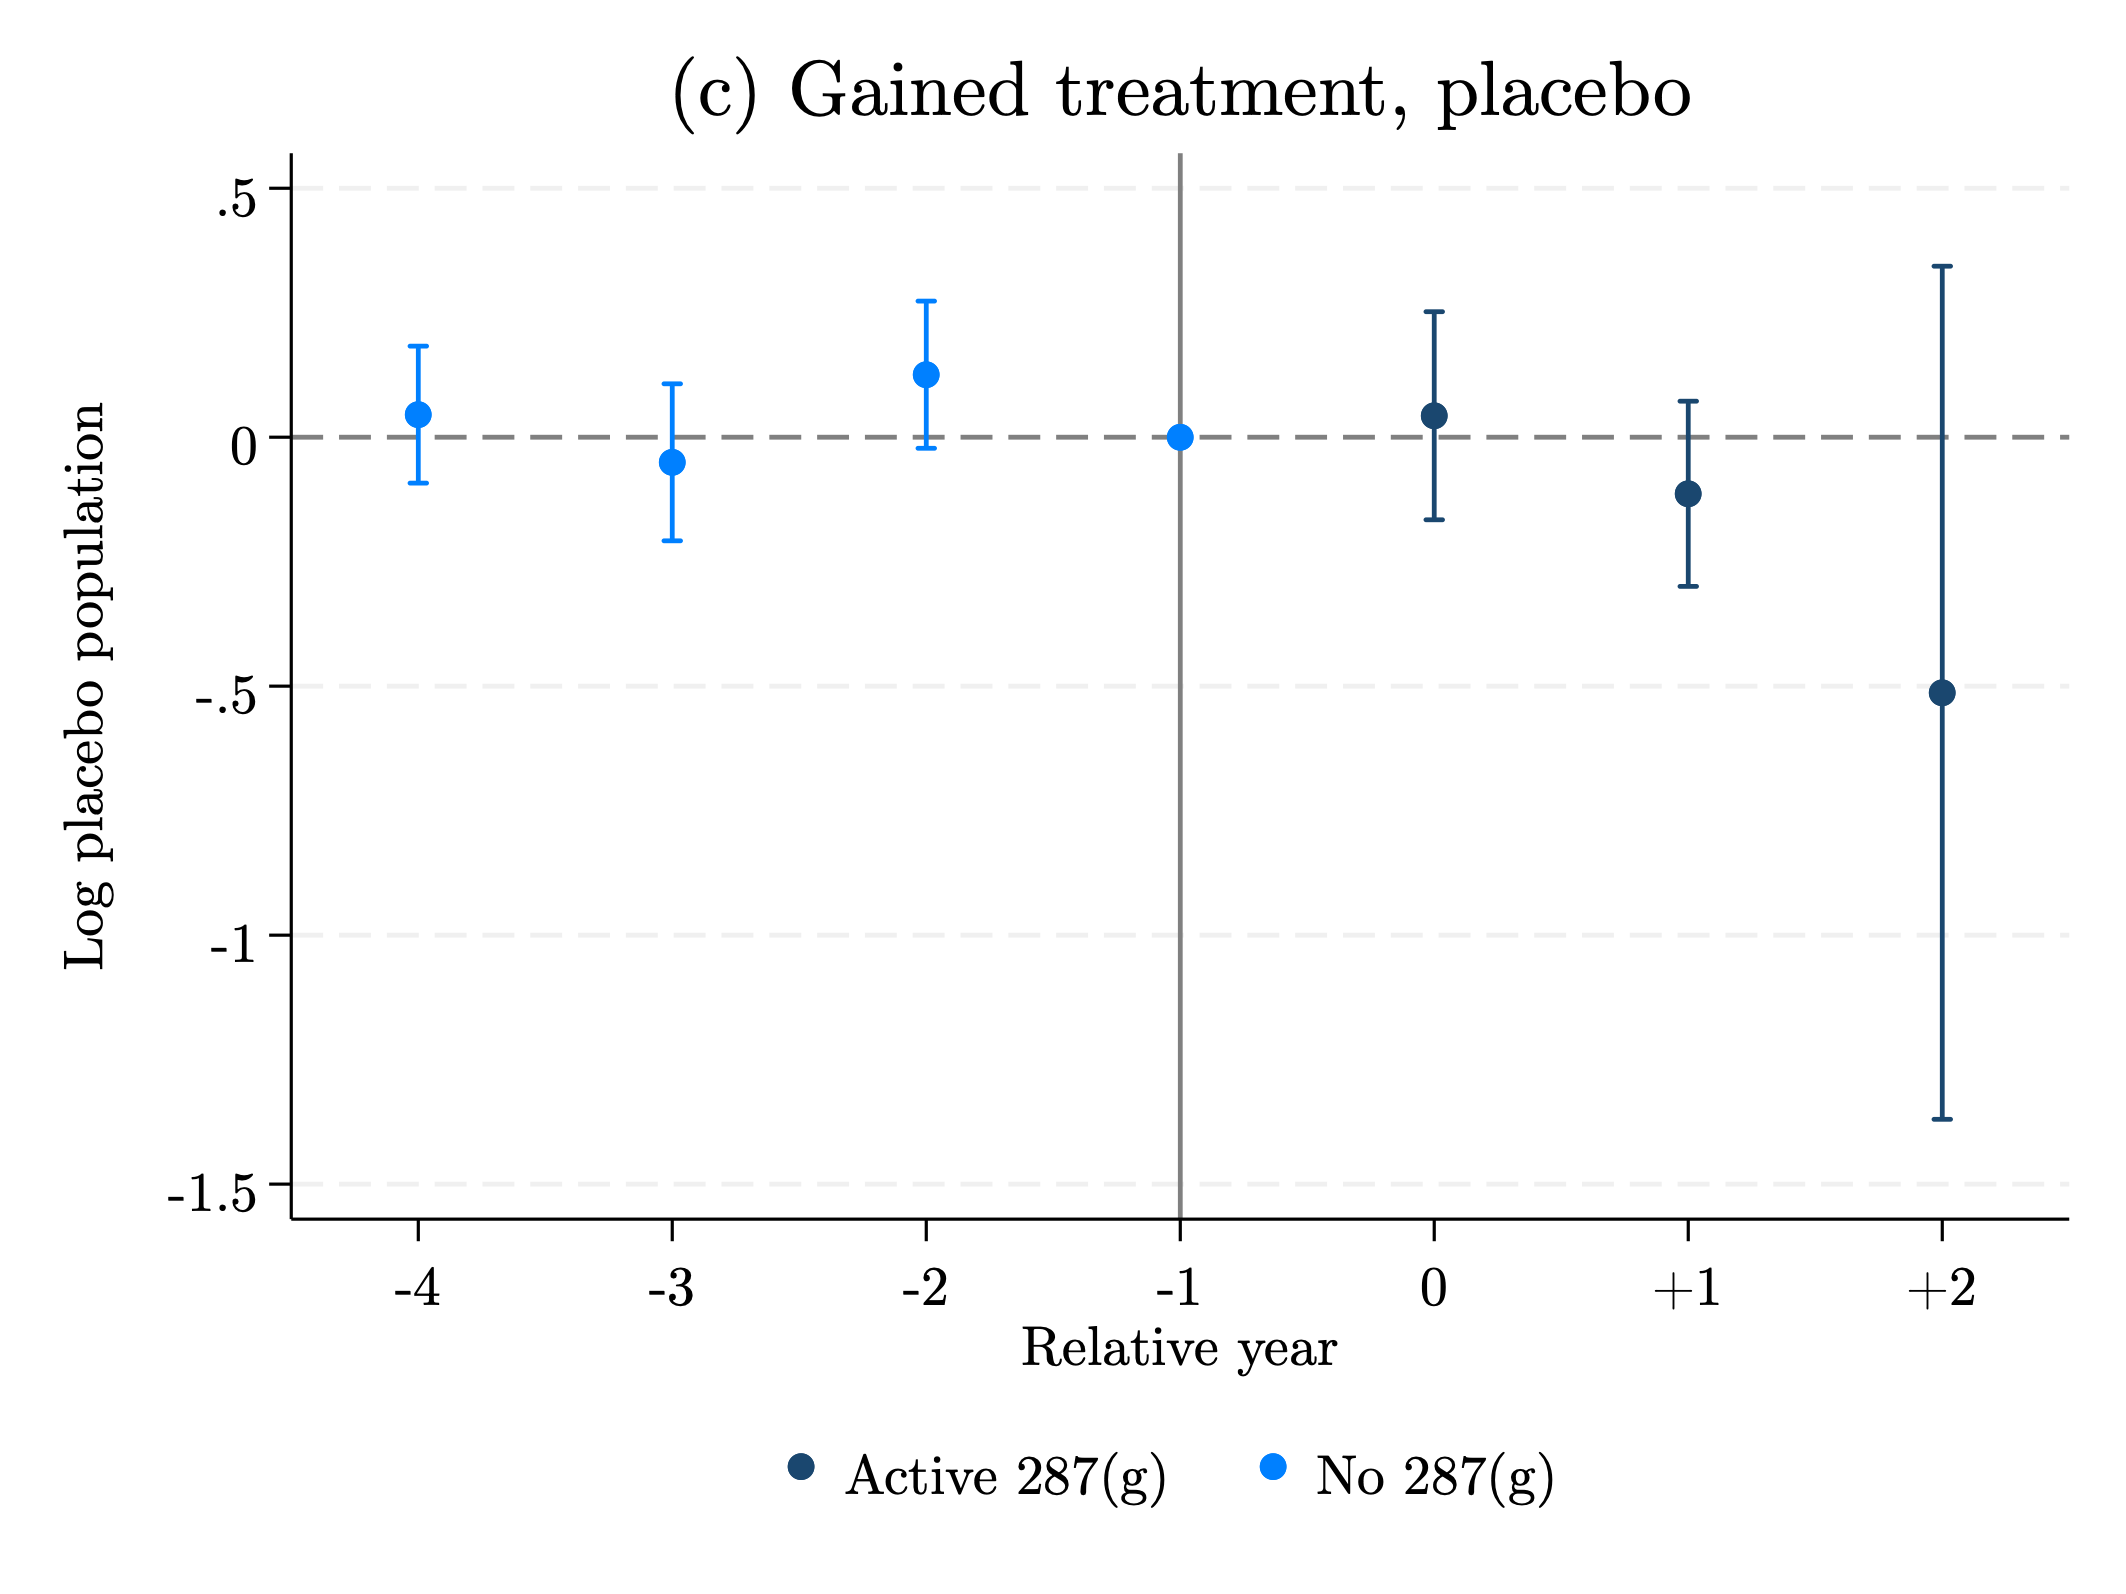
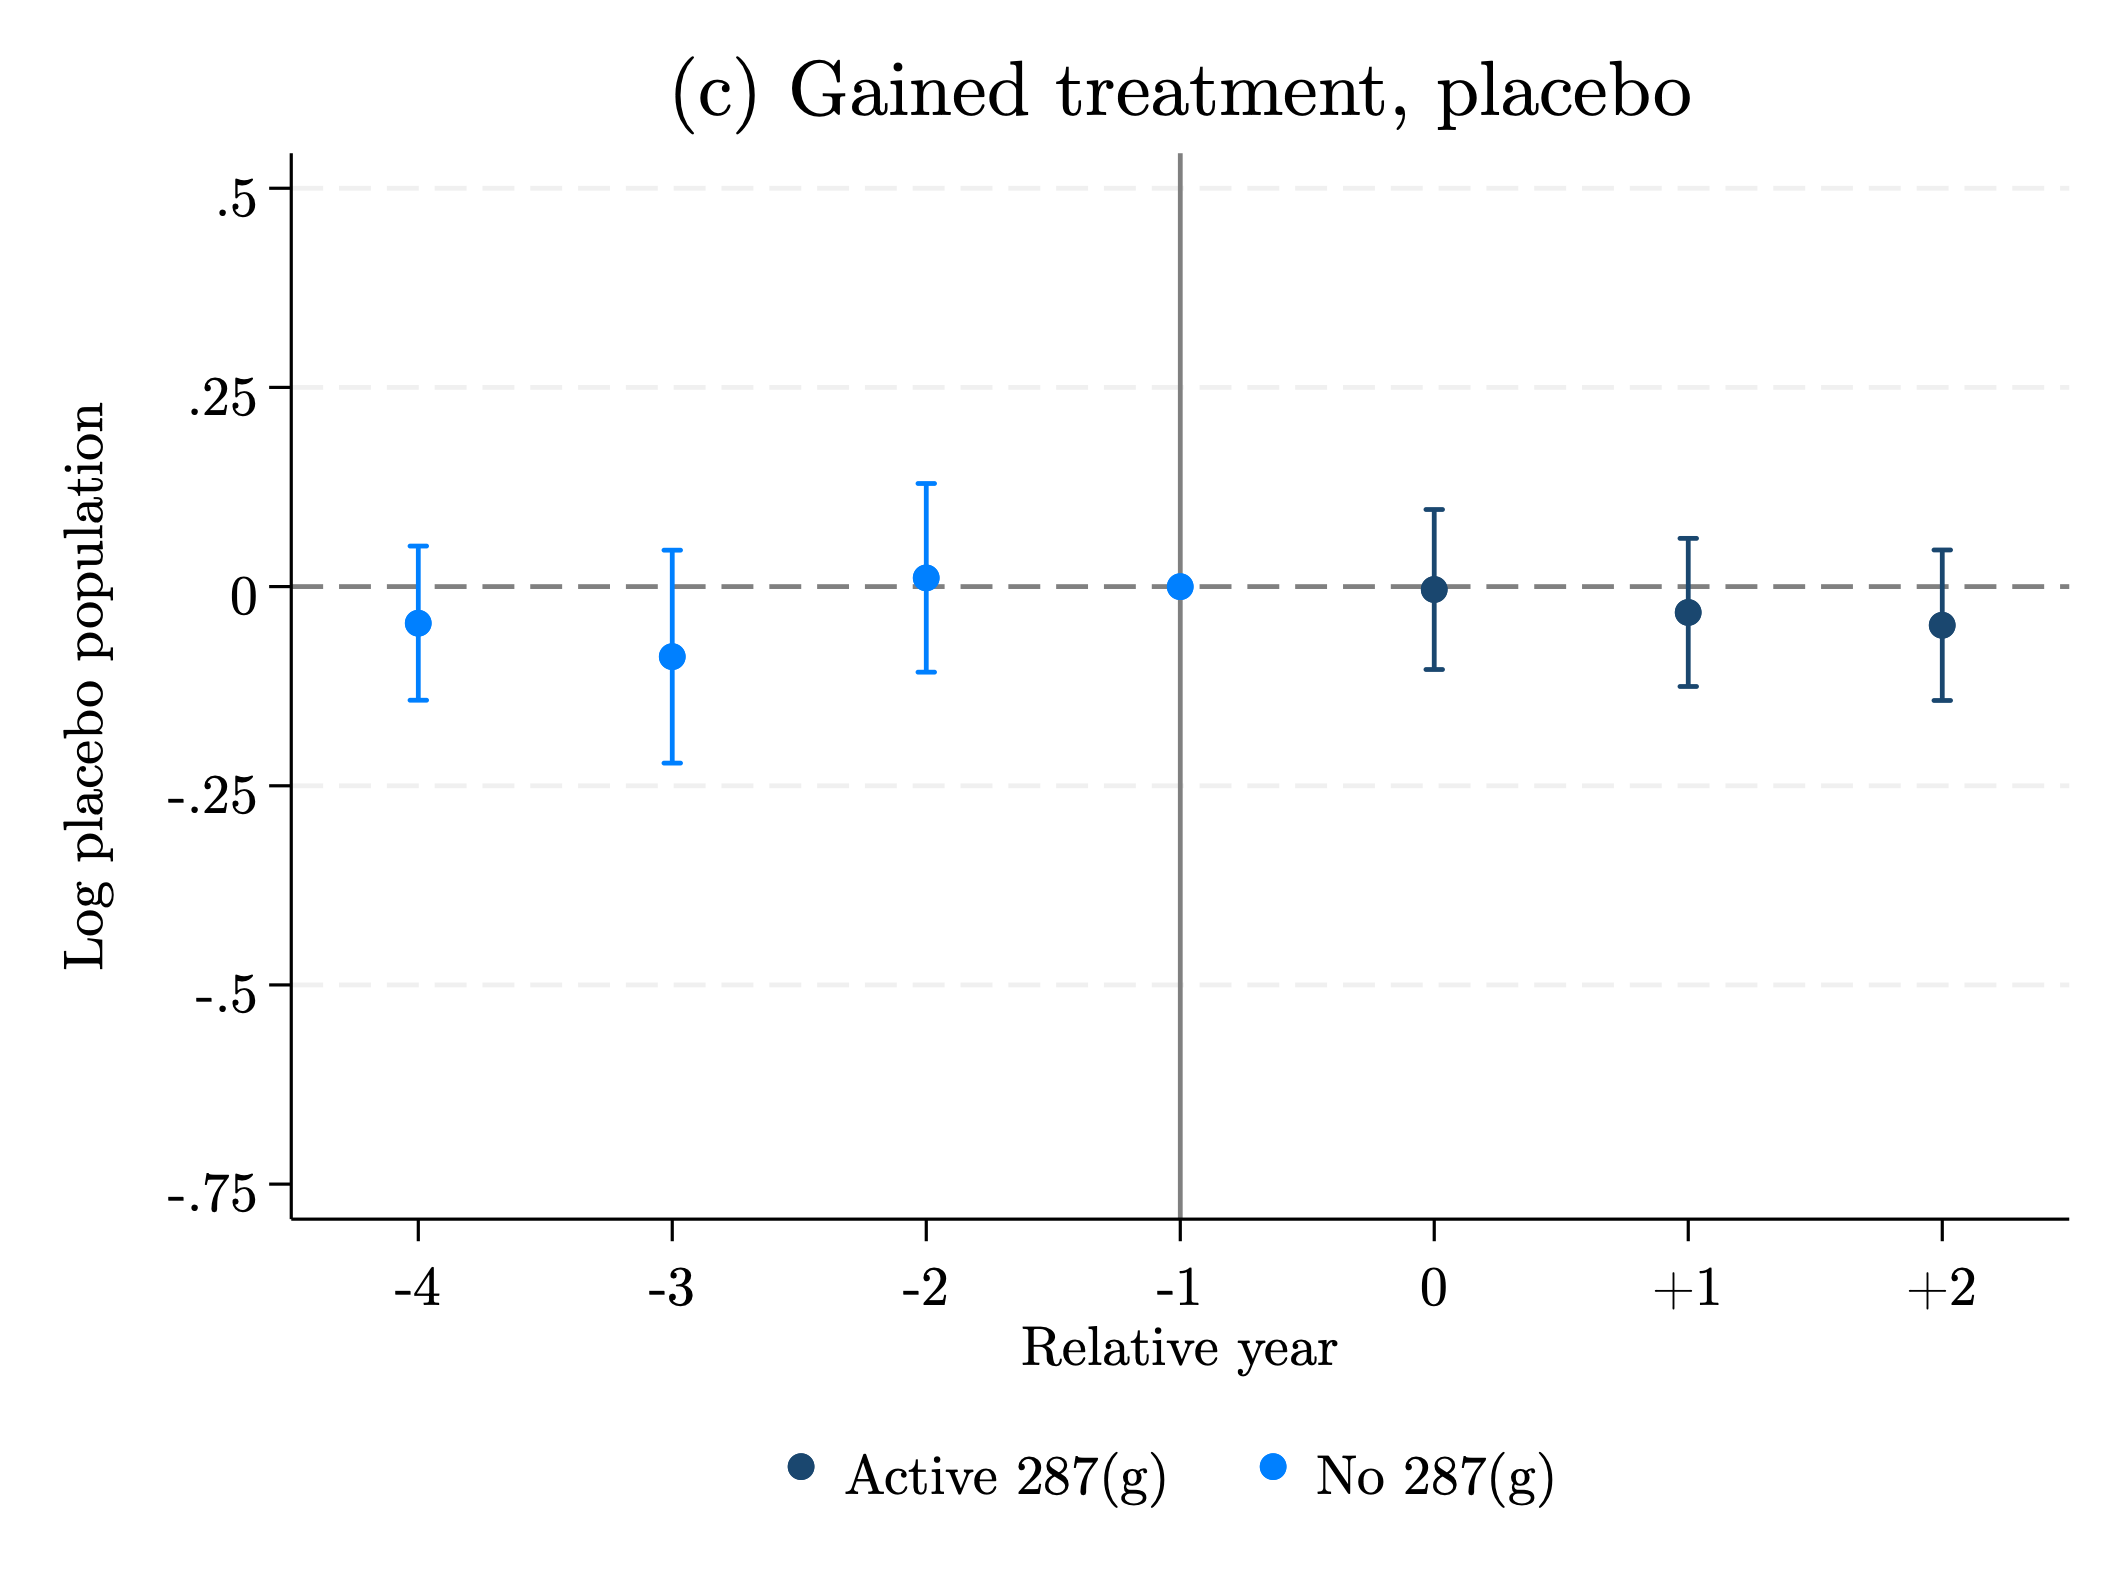
trying out white population

diff --git a/output/final/logpops_het.tex b/output/final/logpops_het.tex
@@ -22,14 +22,14 @@ Sample Size & 1,505 & 1,505 & 1,505 & 1,505 & 1,505 & 1,505  \\
  & Baseline & Mexican & Poor English & New Immigrant & No children & Non-Hispanic \\
 Log population & (7) & (8)  & (9) & (10) & (11) & (12) \\
 \midrule
- Gain treatment & -0.0834 & 0.1679 & -0.7473 & . & -0.0456 & -0.0353 \\
- & (0.2311) & (0.3066) & (0.5479) & . & (0.2339) & (0.0290) \\
- Lose treatment & 0.0358 & -0.1834 & 0.3267 & . & 0.0255 & -0.0621*** \\
- & (0.0350) & (0.1348) & (0.2490) & . & (0.0374) & (0.0208) \\
+ Gain treatment & 0.0054 & 9,999.0000 & -0.5015 & . & 0.0221 & -0.0353 \\
+ & (0.0295) & (9,999.0000) & (0.4063) & . & (0.0316) & (0.0290) \\
+ Lose treatment & -0.0996*** & 9,999.0000 & -0.5095 & . & -0.0784** & -0.0621*** \\
+ & (0.0307) & (9,999.0000) & (0.7893) & . & (0.0342) & (0.0208) \\
 \\
  Controls & X & X & X & . & X & X \\
- \textit{R2} & 0.9515 & 0.8983 & 0.7526 & . & 0.9467 & 0.9887    \\
- Untreated pop size & 6,856 & 4,694 & 169 & . & 6,074 & 14,341  \\
+ \textit{R2} & 0.9801 & . & 0.4834 & . & 0.9795 & 0.9887    \\
+ Untreated pop size & 8,786 & 0 & 14 & . & 7,972 & 14,341  \\
 Sample Size & 1,505 & 1,505 & 1,505 & . & 1,505 & 1,505  \\
 \bottomrule
 \bottomrule

diff --git a/output/final/logtargetpop_did_prop.tex b/output/final/logtargetpop_did_prop.tex
@@ -4,14 +4,14 @@
  & \multicolumn{2}{c}{Target population} & \multicolumn{2}{c}{Placebo population}  \\
 Log population & (1) & (2)  & (3) & (4) \\
 \midrule 
- Gain treatment & -0.3613*** & -0.3731*** & -0.0927 & -0.0477 \\
- & (0.1339) & (0.1346) & (0.2270) & (0.2180) \\
- Lose treatment & 0.0146 & 0.0535 & -0.0289 & 0.1112* \\
- & (0.0884) & (0.0812) & (0.0476) & (0.0635) \\
+ Gain treatment & -0.3613*** & -0.3731*** & -0.0312 & -0.0130 \\
+ & (0.1339) & (0.1346) & (0.0338) & (0.0325) \\
+ Lose treatment & 0.0146 & 0.0535 & -0.1264*** & -0.1201*** \\
+ & (0.0884) & (0.0812) & (0.0363) & (0.0348) \\
 \\
  Controls &  & X &  & X \\
- \textit{R2} & 0.9490 & 0.9506 & 0.9648 & 0.9668  \\
- Untreated pop size & 1,013 & 1,013 & 7,319 & 7,319  \\
+ \textit{R2} & 0.9490 & 0.9506 & 0.9890 & 0.9898  \\
+ Untreated pop size & 1,013 & 1,013 & 9,081 & 9,081  \\
 Sample Size & 1,505 & 1,505 & 1,505 & 1,505  \\
 \bottomrule
 \bottomrule

diff --git a/output/final/logtargetpop_did.tex b/output/final/logtargetpop_did.tex
@@ -4,14 +4,14 @@
  & \multicolumn{2}{c}{Target population} & \multicolumn{2}{c}{Placebo population}  \\
 Log population & (1) & (2)  & (3) & (4) \\
 \midrule 
- Gain treatment & -0.2704** & -0.2980** & -0.0609 & -0.0834 \\
- & (0.1235) & (0.1287) & (0.2294) & (0.2311) \\
- Lose treatment & 0.1022 & 0.1247* & 0.0060 & 0.0358 \\
- & (0.0744) & (0.0754) & (0.0406) & (0.0350) \\
+ Gain treatment & -0.2704** & -0.2980** & 0.0125 & 0.0054 \\
+ & (0.1235) & (0.1287) & (0.0308) & (0.0295) \\
+ Lose treatment & 0.1022 & 0.1247* & -0.0836** & -0.0996*** \\
+ & (0.0744) & (0.0754) & (0.0331) & (0.0307) \\
 \\
  Controls &  & X &  & X \\
- \textit{R2} & 0.9220 & 0.9238 & 0.9498 & 0.9515  \\
- Untreated pop size & 1,013 & 1,013 & 7,319 & 7,319  \\
+ \textit{R2} & 0.9220 & 0.9238 & 0.9787 & 0.9801  \\
+ Untreated pop size & 1,013 & 1,013 & 9,081 & 9,081  \\
 Sample Size & 1,505 & 1,505 & 1,505 & 1,505  \\
 \bottomrule
 \bottomrule

diff --git a/output/final/logtargetpop_reg.tex b/output/final/logtargetpop_reg.tex
@@ -4,12 +4,12 @@
  & \multicolumn{2}{c}{Target population} & \multicolumn{2}{c}{Placebo population}  \\
  Log population & (1) & (2)  & (3) & (4)  \\
 \midrule 
- Treated migpuma & -0.1357** & -0.1603** & -0.0170 & -0.0456 \\
- & (0.0634) & (0.0650) & (0.0567) & (0.0528) \\
+ Treated migpuma & -0.1357** & -0.1603** & 0.0694*** & 0.0802*** \\
+ & (0.0634) & (0.0650) & (0.0258) & (0.0244) \\
 \\
  Controls &  & X &  & X \\
- \textit{R2} & 0.9219 & 0.9236 & 0.9498 & 0.9515  \\
- Untreated pop size & 1,013 & 1,013 & 7,319 & 7,319  \\
+ \textit{R2} & 0.9219 & 0.9236 & 0.9786 & 0.9801  \\
+ Untreated pop size & 1,013 & 1,013 & 9,081 & 9,081  \\
 Sample Size & 1,505 & 1,505 & 1,505 & 1,505  \\
 \bottomrule
 \bottomrule
